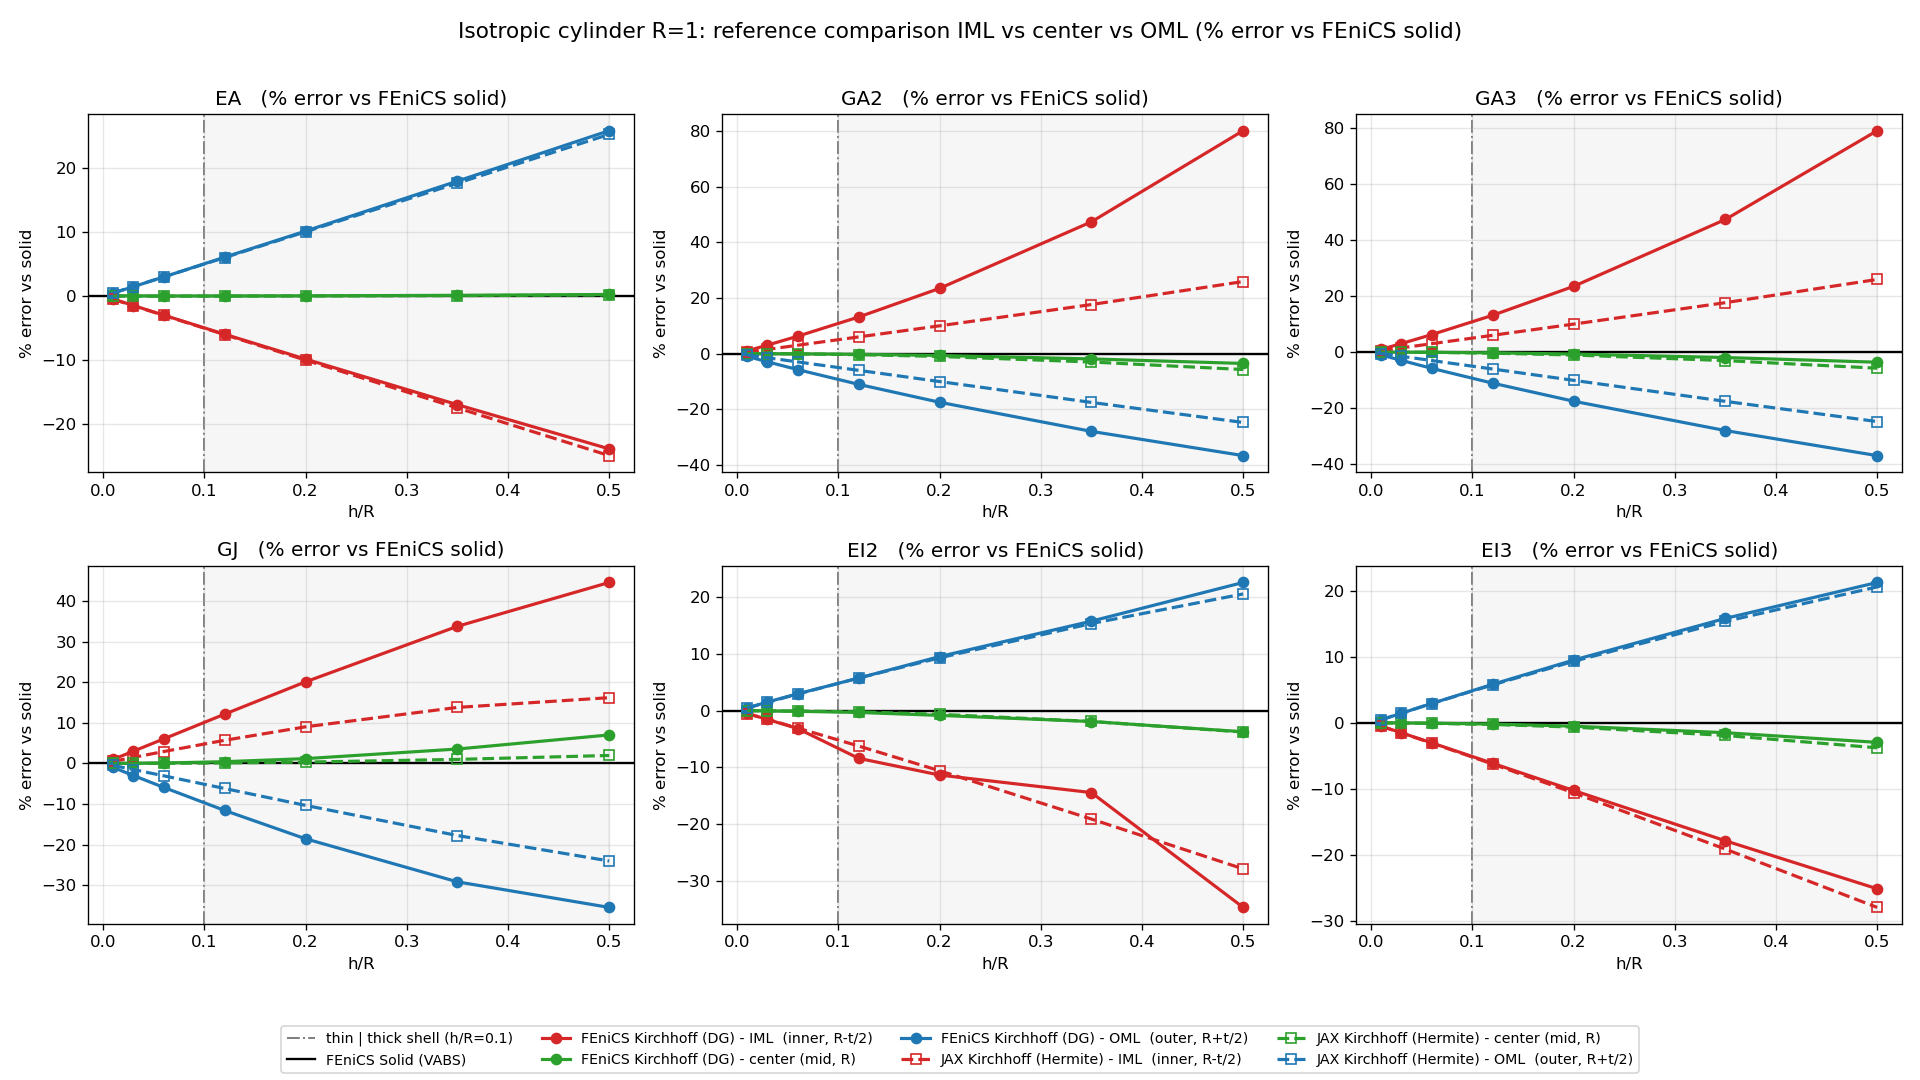
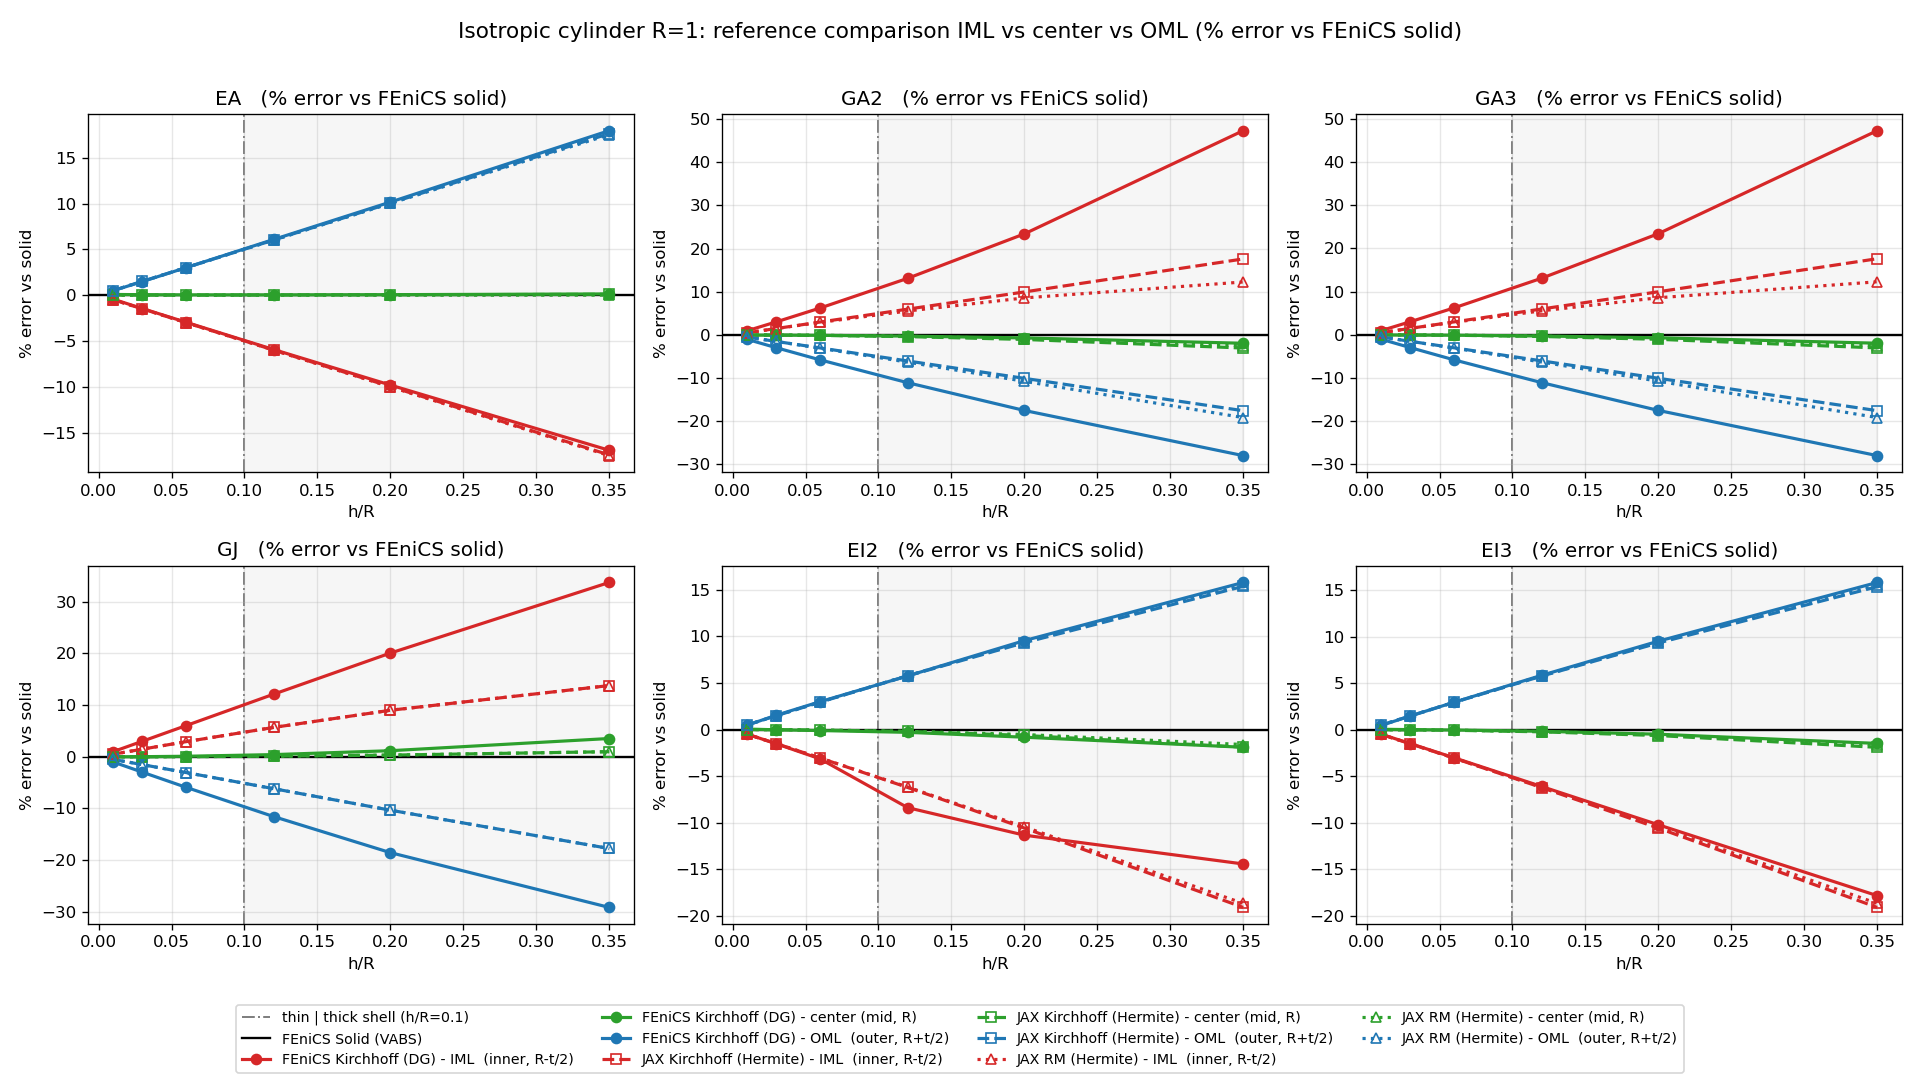
isotropic_tube: ref-compare plot adds JAX RM, drops h/R=0.5

diff --git a/examples/isotropic_tube/compile_ref.py b/examples/isotropic_tube/compile_ref.py
@@ -13,7 +13,7 @@ import matplotlib.pyplot as plt
 
 CS = r"C:\Users\bagla0\OneDrive - purdue.edu\2026_195\Claude_code\cylinder_study"
 RES = os.path.join(CS, "results")
-HR = ["0.01", "0.03", "0.06", "0.12", "0.2", "0.35", "0.5"]
+HR = ["0.01", "0.03", "0.06", "0.12", "0.2", "0.35"]  # h/R=0.5 dropped (off-scale, far past thick-shell limit)
 hR = np.array([float(h) for h in HR])
 NAMES = ["EA", "GA2", "GA3", "GJ", "EI2", "EI3"]
 
@@ -40,20 +40,21 @@ REFS = [("I", "IML  (inner, R-t/2)", "tab:red"),
         ("O", "OML  (outer, R+t/2)", "tab:blue")]
 # method -> (tag prefix, label, linestyle, marker)
 METHODS = [("SHELL", "FEniCS Kirchhoff (DG)", "-", "o"),
-           ("KIRCH", "JAX Kirchhoff (Hermite)", "--", "s")]
+           ("KIRCH", "JAX Kirchhoff (Hermite)", "--", "s"),
+           ("RM", "JAX RM (Hermite)", ":", "^")]
 
 fig, ax = plt.subplots(2, 3, figsize=(16, 9))
 for j, nm in enumerate(NAMES):
     a = ax[j // 3, j % 3]
     s = SOLID(j)
-    a.axvspan(0.1, 0.5, color="gray", alpha=0.07, zorder=0)
+    a.axvspan(0.1, 0.35, color="gray", alpha=0.07, zorder=0)
     a.axvline(0.1, color="gray", ls="-.", lw=1.2, zorder=1, label="thin | thick shell (h/R=0.1)")
     a.axhline(0, color="k", lw=1.4, label="FEniCS Solid (VABS)")
     for mtag, mlab, ls, mk in METHODS:
         for rsuf, rlab, col in REFS:
             err = 100.0 * (diag(mtag + "_" + rsuf, j) - s) / s
             a.plot(hR, err, color=col, ls=ls, lw=1.9, marker=mk, ms=6,
-                   mfc=("none" if ls == "--" else col), label="%s - %s" % (mlab, rlab))
+                   mfc=("none" if ls != "-" else col), label="%s - %s" % (mlab, rlab))
     a.set_xlabel("h/R"); a.set_ylabel("% error vs solid")
     a.set_title("%s   (%% error vs FEniCS solid)" % nm)
     a.grid(alpha=0.3)
